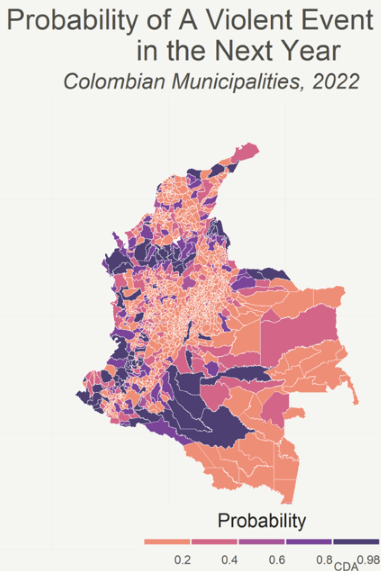
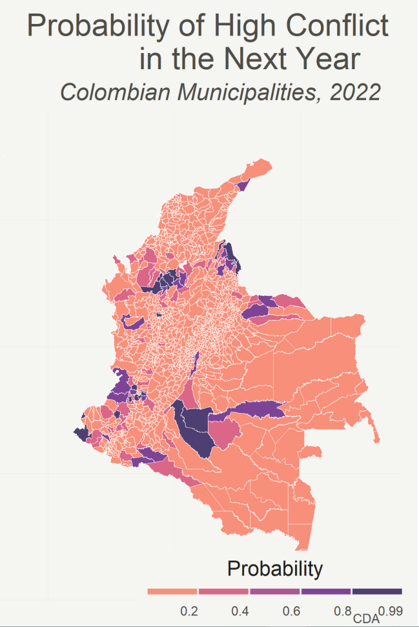
update-colombia_photo

Changed region(s): [[0.1732, 0.2382, 1.0, 1.0], [0.0, 0.0, 0.9816, 0.1786]]

diff --git a/index.html b/index.html
@@ -162,7 +162,7 @@
         </div>
         <div class="col-md-6 mb-4 d-flex">
           <div class="card">
-            <img class="card-img-top" src="images/colombia_conflict2.png" style="max-height:60%;" alt="Forecasting Conflict">
+            <img class="card-img-top" src="images/colombia_combined.png" style="max-height:60%;" alt="Forecasting Conflict">
             <div class="card-body">
               <h5 class="card-title">Forecasting Conflict</h5>
               <p class="card-text">Analysis done combining location-based conflict data from ACLED with socioeconomic and remote sensing data to predict conflict in Colombia, Central African Republic, Libya, amongst others. These reports were done internally for subject matter experts at DAI and USAID to inform programming decisions and XXXXX.</p>
